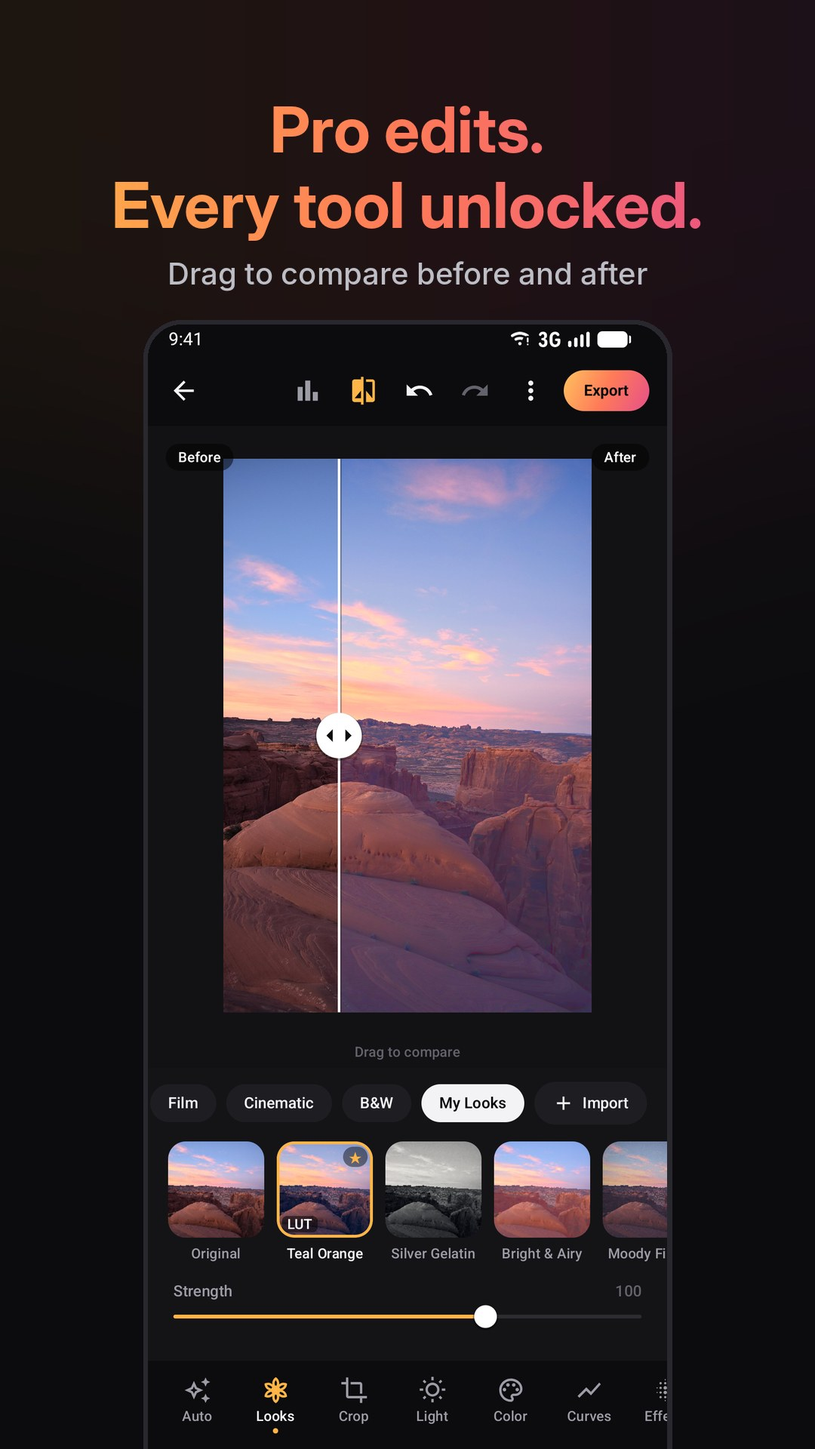
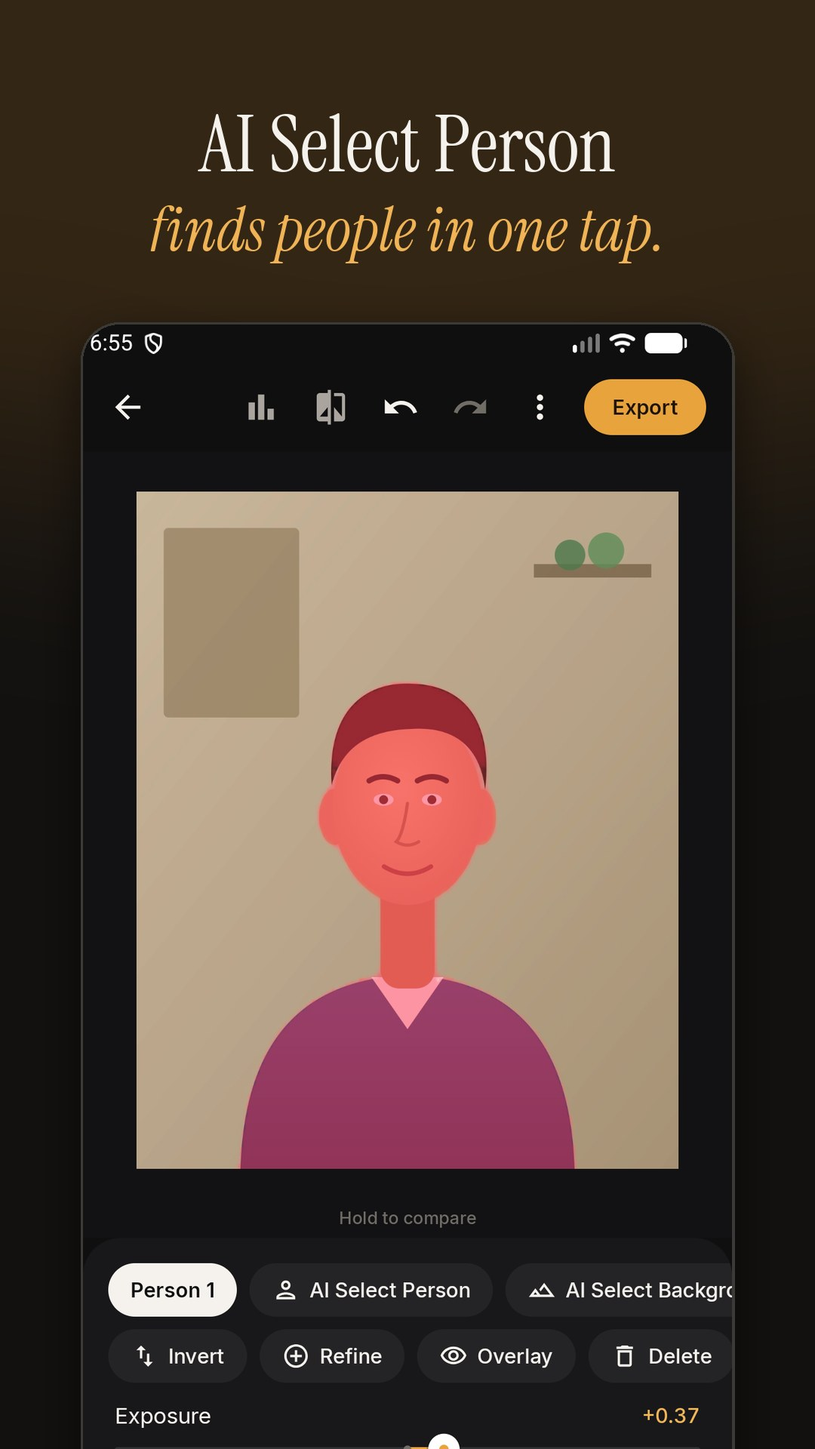
Press kit: FitMyPDF (formerly PDF Crush), GlowShop (formerly Tonal), ads claims (16 Nov 2026)

diff --git a/press/pdf-crush.html b/press/pdf-crush.html
@@ -1,1 +1,1 @@
-<!doctype html><html lang="en"><head><meta charset="utf-8"><meta name="viewport" content="width=device-width,initial-scale=1"><title>FitMyPDF press kit (formerly PDF Crush)</title><meta name="description" content="Compress a PDF, photo or signature to the exact KB limit a form asks for. Free, no ads, works offline."><style>body{font:16px/1.6 system-ui,-apple-system,Segoe UI,Roboto,sans-serif;max-width:860px;margin:0 auto;padding:24px 16px;color:#1f2937;background:#fff}h1{font-size:26px;margin:.2em 0}h2{font-size:19px;margin-top:28px}a{color:#0b5cad}li{margin:4px 0}table{border-collapse:collapse}td{padding:4px 12px 4px 0;vertical-align:top}td:first-child{color:#6b7280;white-space:nowrap}.head{display:flex;gap:16px;align-items:center}.head img{width:88px;height:88px;border-radius:20px}.shots{display:grid;grid-template-columns:repeat(auto-fill,minmax(130px,1fr));gap:10px}.shots img{width:100%;border-radius:8px;border:1px solid #e5e7eb}.cards{display:grid;gap:14px}.card{display:flex;gap:14px;align-items:center;border:1px solid #e5e7eb;border-radius:12px;padding:12px}.card img{width:64px;height:64px;border-radius:14px}footer{margin-top:40px;color:#6b7280;font-size:14px}@media(prefers-color-scheme:dark){body{background:#111827;color:#e5e7eb}a{color:#7cb4f5}.card,.shots img{border-color:#374151}}</style></head><body><p><a href="./">Press kit</a></p><div class="head"><img src="pdfcrush-icon.png" alt="FitMyPDF icon"><div><h1>FitMyPDF: Compress PDF to KB</h1><div><em>Formerly PDF Crush.</em> Renamed in version 3.3 (November 2026): same app, same Google Play link.</div><div>Compress a PDF, photo or signature to the exact KB limit a form asks for. Free, no ads, works offline.</div></div></div><h2>About</h2><p>Exam, job and government portals reject uploads that miss a size limit: under 100 KB, under 200 KB, or &quot;between 50 KB and 300 KB&quot;. FitMyPDF (formerly PDF Crush) is a free Android app built for exactly that. Type the size you need and it finds the best quality that fits, keeping text sharp and selectable whenever the size allows; if a form also sets a minimum, a file that is too small is made bigger to meet it. It also turns a photo or signature into a JPG of the exact KB range and pixel size a form asks for, with presets read from official notices (JEE Main, NEET UG, UPSC, SSC CHSL). It scans paper straight to a PDF at the size you choose, opens large PDFs quickly, and includes merge, split, images-to-PDF and password tools. There are no ads, no watermark and no limits, and the app has no internet permission, so files never leave the phone. A free browser version works on any computer, also without uploading anything.</p><h2>Key facts</h2><table><tr><td>Price</td><td>Free. No ads, no in-app purchases, no watermark, no daily limits</td></tr><tr><td>Platform</td><td>Android 8.1 and newer</td></tr><tr><td>Current version</td><td>3.3.0 (November 2026)</td></tr><tr><td>Languages</td><td>English, Hindi, Bengali, Indonesian, Portuguese, Spanish, Arabic, Vietnamese, Turkish, French</td></tr><tr><td>Web version</td><td><a href="https://dev114453.github.io/tools/compress-pdf.html">dev114453.github.io/tools/compress-pdf.html</a> (runs in the browser; the file is not uploaded)</td></tr><tr><td>Developer</td><td>developer1021</td></tr><tr><td>Google Play</td><td><a href="https://play.google.com/store/apps/details?id=com.pdfcompress.start">https://play.google.com/store/apps/details?id=com.pdfcompress.start</a></td></tr><tr><td>Press contact</td><td><a href="mailto:devloper1021@gmail.com">devloper1021@gmail.com</a></td></tr></table><h2>What is different</h2><ul><li>Compress to a target size (50 KB, 100 KB, 200 KB, 300 KB, 500 KB, 1 MB, 2 MB or any number), not a vague quality slider</li><li>A minimum size too, for forms that say &quot;50 to 300 KB&quot;: too-small files are made bigger</li><li>Text stays selectable when the size allows; if pages have to become images, the app says so</li><li>The result shows the exact size down to the byte and whether it fits</li><li>Photo &amp; signature to KB: a JPG between, say, 20 and 50 KB or 10 and 20 KB, at the exact pixel size, with a crop frame</li><li>Document scanner that saves straight to 100 KB, 200 KB or 50 to 300 KB; black-and-white mode is often under 50 KB a page</li><li>Fast reader for 100+ MB, 150-page PDFs, with day, sepia and night modes</li></ul><h2>Privacy</h2><ul><li>No internet permission: the app cannot upload files</li><li>No storage permission, no account, no sign-in</li><li>Originals are never overwritten; results go to Downloads/FitMyPDF</li><li>No ads and no analytics</li></ul><h2>Screenshots</h2><p>Click for full size (1080 x 1920). <a href="pdfcrush-icon.png">App icon (512 x 512)</a>.</p><div class="shots"><a href="pdfcrush-1.jpg"><img src="pdfcrush-1.jpg" alt="FitMyPDF screenshot 1" loading="lazy"></a><a href="pdfcrush-2.jpg"><img src="pdfcrush-2.jpg" alt="FitMyPDF screenshot 2" loading="lazy"></a><a href="pdfcrush-3.jpg"><img src="pdfcrush-3.jpg" alt="FitMyPDF screenshot 3" loading="lazy"></a><a href="pdfcrush-4.jpg"><img src="pdfcrush-4.jpg" alt="FitMyPDF screenshot 4" loading="lazy"></a><a href="pdfcrush-5.jpg"><img src="pdfcrush-5.jpg" alt="FitMyPDF screenshot 5" loading="lazy"></a><a href="pdfcrush-6.jpg"><img src="pdfcrush-6.jpg" alt="FitMyPDF screenshot 6" loading="lazy"></a></div><footer>Press kit by developer1021. Text, screenshots and icons are free to use in coverage with credit to the app name. Contact: <a href="mailto:devloper1021@gmail.com">devloper1021@gmail.com</a></footer></body></html>
+<!doctype html><html lang="en"><head><meta charset="utf-8"><meta name="viewport" content="width=device-width,initial-scale=1"><title>FitMyPDF press kit (formerly PDF Crush)</title><meta name="description" content="Compress a PDF, photo or signature to the exact KB limit a form asks for. Free with a small ad; files stay on the phone."><style>body{font:16px/1.6 system-ui,-apple-system,Segoe UI,Roboto,sans-serif;max-width:860px;margin:0 auto;padding:24px 16px;color:#1f2937;background:#fff}h1{font-size:26px;margin:.2em 0}h2{font-size:19px;margin-top:28px}a{color:#0b5cad}li{margin:4px 0}table{border-collapse:collapse}td{padding:4px 12px 4px 0;vertical-align:top}td:first-child{color:#6b7280;white-space:nowrap}.head{display:flex;gap:16px;align-items:center}.head img{width:88px;height:88px;border-radius:20px}.shots{display:grid;grid-template-columns:repeat(auto-fill,minmax(130px,1fr));gap:10px}.shots img{width:100%;border-radius:8px;border:1px solid #e5e7eb}.cards{display:grid;gap:14px}.card{display:flex;gap:14px;align-items:center;border:1px solid #e5e7eb;border-radius:12px;padding:12px}.card img{width:64px;height:64px;border-radius:14px}footer{margin-top:40px;color:#6b7280;font-size:14px}@media(prefers-color-scheme:dark){body{background:#111827;color:#e5e7eb}a{color:#7cb4f5}.card,.shots img{border-color:#374151}}</style></head><body><p><a href="./">Press kit</a></p><div class="head"><img src="pdfcrush-icon.png" alt="FitMyPDF icon"><div><h1>FitMyPDF: Compress PDF to KB</h1><div><b>Formerly PDF Crush.</b> Renamed in version 3.3 (November 2026): same app, same Google Play link.</div><div>Compress a PDF, photo or signature to the exact KB limit a form asks for. Free with a small ad; files stay on the phone.</div></div></div><h2>About</h2><p>Exam, job and government portals reject uploads that miss a size limit: under 100 KB, under 200 KB, or &quot;between 50 KB and 300 KB&quot;. FitMyPDF (formerly PDF Crush) is a free Android PDF compressor built for exactly that. Type the size you need and it finds the best quality that fits, keeping text sharp and selectable whenever the size allows; if a form also sets a minimum, a file that is too small is made bigger to meet it. It also turns a photo or signature into a JPG of the exact KB range and pixel size a form asks for, with presets read from official notices for 11 Indian exams (JEE Main, NEET UG, CUET UG, UGC NET, CSIR NET, GATE, CTET, UPSC, SSC CHSL, IBPS PO, SBI Clerk). It scans paper straight to a PDF at the size you choose, opens large PDFs quickly, and includes merge, split, images-to-PDF and password tools. Files are processed on the phone and never uploaded. The app is free with a small ad and has no watermark or daily limits; an optional one-time purchase removes the ads. A free browser version works on any computer, also without uploading anything.</p><h2>Key facts</h2><table><tr><td>Price</td><td>Free with a small ad (home-screen banner, occasional ad after a file is saved). Optional one-time Remove ads purchase. No watermark, no daily limits</td></tr><tr><td>Platform</td><td>Android 8.1 and newer</td></tr><tr><td>Current version</td><td>3.4.0 (November 2026)</td></tr><tr><td>Languages</td><td>English, Hindi, Bengali, Indonesian, Portuguese, Spanish, Arabic, Vietnamese, Turkish, French</td></tr><tr><td>Web version</td><td><a href="https://dev114453.github.io/tools/compress-pdf.html">dev114453.github.io/tools/compress-pdf.html</a> (runs in the browser; the file is not uploaded)</td></tr><tr><td>Formerly</td><td>PDF Crush (renamed in version 3.3)</td></tr><tr><td>Developer</td><td>developer1021</td></tr><tr><td>Google Play</td><td><a href="https://play.google.com/store/apps/details?id=com.pdfcompress.start">https://play.google.com/store/apps/details?id=com.pdfcompress.start</a></td></tr><tr><td>Press contact</td><td><a href="mailto:devloper1021@gmail.com">devloper1021@gmail.com</a></td></tr></table><h2>What is different</h2><ul><li>Compress to a target size (50 KB, 100 KB, 200 KB, 300 KB, 500 KB, 1 MB, 2 MB or any number), not a vague quality slider</li><li>A minimum size too, for forms that say &quot;50 to 300 KB&quot;: too-small files are made bigger</li><li>Text stays selectable when the size allows; if pages have to become images, the app says so</li><li>The result shows the exact size down to the byte and whether it fits</li><li>Photo &amp; signature to KB: a JPG between, say, 20 and 50 KB or 10 and 20 KB, at the exact pixel size, with a crop frame</li><li>Exam presets read from official notices, each naming its source</li><li>Document scanner that saves straight to 100 KB, 200 KB or 50 to 300 KB; black-and-white mode is often under 50 KB a page</li><li>Fast reader for 100+ MB, 150-page PDFs, with day, sepia and night modes</li></ul><h2>Privacy</h2><ul><li>PDFs, photos and signatures are processed on the phone and never uploaded</li><li>No account, no sign-in</li><li>Originals are never overwritten; results go to Downloads/FitMyPDF</li><li>Ads are served by Google AdMob, with consent choices where required; the one-time Remove ads purchase turns them off</li></ul><h2>Screenshots</h2><p>Click for full size (1080 x 1920). <a href="pdfcrush-icon.png">App icon (512 x 512)</a>.</p><div class="shots"><a href="pdfcrush-1.jpg"><img src="pdfcrush-1.jpg" alt="FitMyPDF screenshot 1" loading="lazy"></a><a href="pdfcrush-2.jpg"><img src="pdfcrush-2.jpg" alt="FitMyPDF screenshot 2" loading="lazy"></a><a href="pdfcrush-3.jpg"><img src="pdfcrush-3.jpg" alt="FitMyPDF screenshot 3" loading="lazy"></a><a href="pdfcrush-4.jpg"><img src="pdfcrush-4.jpg" alt="FitMyPDF screenshot 4" loading="lazy"></a><a href="pdfcrush-5.jpg"><img src="pdfcrush-5.jpg" alt="FitMyPDF screenshot 5" loading="lazy"></a><a href="pdfcrush-6.jpg"><img src="pdfcrush-6.jpg" alt="FitMyPDF screenshot 6" loading="lazy"></a></div><footer>Press kit by developer1021. Text, screenshots and icons are free to use in coverage with credit to the app name. Contact: <a href="mailto:devloper1021@gmail.com">devloper1021@gmail.com</a></footer></body></html>

diff --git a/press/tonal.html b/press/tonal.html
@@ -1,1 +1,1 @@
-<!doctype html><html lang="en"><head><meta charset="utf-8"><meta name="viewport" content="width=device-width,initial-scale=1"><title>Tonal press kit</title><meta name="description" content="A free pro photo editor that imports XMP/DNG presets and .cube LUTs. No ads, no subscription, offline."><style>body{font:16px/1.6 system-ui,-apple-system,Segoe UI,Roboto,sans-serif;max-width:860px;margin:0 auto;padding:24px 16px;color:#1f2937;background:#fff}h1{font-size:26px;margin:.2em 0}h2{font-size:19px;margin-top:28px}a{color:#0b5cad}li{margin:4px 0}table{border-collapse:collapse}td{padding:4px 12px 4px 0;vertical-align:top}td:first-child{color:#6b7280;white-space:nowrap}.head{display:flex;gap:16px;align-items:center}.head img{width:88px;height:88px;border-radius:20px}.shots{display:grid;grid-template-columns:repeat(auto-fill,minmax(130px,1fr));gap:10px}.shots img{width:100%;border-radius:8px;border:1px solid #e5e7eb}.cards{display:grid;gap:14px}.card{display:flex;gap:14px;align-items:center;border:1px solid #e5e7eb;border-radius:12px;padding:12px}.card img{width:64px;height:64px;border-radius:14px}footer{margin-top:40px;color:#6b7280;font-size:14px}@media(prefers-color-scheme:dark){body{background:#111827;color:#e5e7eb}a{color:#7cb4f5}.card,.shots img{border-color:#374151}}</style></head><body><p><a href="./">Press kit</a></p><div class="head"><img src="tonal-icon.png" alt="Tonal icon"><div><h1>Tonal: Photo Editor &amp; Presets</h1><div>A free pro photo editor that imports XMP/DNG presets and .cube LUTs. No ads, no subscription, offline.</div></div></div><h2>About</h2><p>Tonal is a free Android photo editor that opens the presets photographers already have. It imports presets in XMP and DNG format (the format Lightroom presets use), straight from a file or a .zip pack, and .cube LUTs up to 64x64x64 for film and cinematic colour. On top of that are the tools of a desktop raw developer: light, HSL, three-way colour grading, tone curves, Subject, Background, Sky, Radial, Linear, colour-range and luminance-range masks, healing, and copy-paste of edits onto many photos with batch export. Every tool is unlocked, there is no subscription, watermark, ads or account, exports are full resolution, and the app has no internet access.</p><h2>Key facts</h2><table><tr><td>Price</td><td>Free, every tool unlocked. No ads, no subscription, no watermark</td></tr><tr><td>Platform</td><td>Android 8.0 and newer</td></tr><tr><td>Current version</td><td>2.0.0 (November 2026)</td></tr><tr><td>Developer</td><td>developer1021</td></tr><tr><td>Google Play</td><td><a href="https://play.google.com/store/apps/details?id=com.developer1021.tonal">https://play.google.com/store/apps/details?id=com.developer1021.tonal</a></td></tr><tr><td>Press contact</td><td><a href="mailto:devloper1021@gmail.com">devloper1021@gmail.com</a></td></tr></table><h2>What is different</h2><ul><li>Imports XMP/DNG presets (incl. .zip packs): exposure, tone, white balance, HSL, colour grading, split toning, curves, clarity, texture, dehaze, vignette, grain and sharpening carry over</li><li>.cube 3D LUT import with a strength slider; save any edit as your own look</li><li>Seven mask types that can be added, subtracted or intersected</li><li>Copy edits from one photo, paste selected groups onto many, batch export at full quality</li><li>History saved with each photo, so undo still works the next day</li><li>Export at full original resolution, JPEG/PNG/WebP, metadata keep/remove location/remove all, Instagram borders</li></ul><h2>Privacy</h2><ul><li>No internet access, no cloud, no account</li><li>Photos never leave the phone</li><li>No ads and no analytics</li></ul><h2>Screenshots</h2><p>Click for full size (1080 x 1920). <a href="tonal-icon.png">App icon (512 x 512)</a>.</p><div class="shots"><a href="tonal-1.jpg"><img src="tonal-1.jpg" alt="Tonal screenshot 1" loading="lazy"></a><a href="tonal-2.jpg"><img src="tonal-2.jpg" alt="Tonal screenshot 2" loading="lazy"></a><a href="tonal-3.jpg"><img src="tonal-3.jpg" alt="Tonal screenshot 3" loading="lazy"></a><a href="tonal-4.jpg"><img src="tonal-4.jpg" alt="Tonal screenshot 4" loading="lazy"></a><a href="tonal-5.jpg"><img src="tonal-5.jpg" alt="Tonal screenshot 5" loading="lazy"></a><a href="tonal-6.jpg"><img src="tonal-6.jpg" alt="Tonal screenshot 6" loading="lazy"></a></div><p><small>Tonal is not affiliated with Adobe. Lightroom is a trademark of Adobe.</small></p><footer>Press kit by developer1021. Text, screenshots and icons are free to use in coverage with credit to the app name. Contact: <a href="mailto:devloper1021@gmail.com">devloper1021@gmail.com</a></footer></body></html>
+<!doctype html><html lang="en"><head><meta charset="utf-8"><meta name="viewport" content="width=device-width,initial-scale=1"><title>GlowShop press kit (formerly Tonal)</title><meta name="description" content="An AI photo editor with one-tap filters, presets and pro tools, and on-device AI Select Person. Free with no ads; optional GlowShop Pro."><style>body{font:16px/1.6 system-ui,-apple-system,Segoe UI,Roboto,sans-serif;max-width:860px;margin:0 auto;padding:24px 16px;color:#1f2937;background:#fff}h1{font-size:26px;margin:.2em 0}h2{font-size:19px;margin-top:28px}a{color:#0b5cad}li{margin:4px 0}table{border-collapse:collapse}td{padding:4px 12px 4px 0;vertical-align:top}td:first-child{color:#6b7280;white-space:nowrap}.head{display:flex;gap:16px;align-items:center}.head img{width:88px;height:88px;border-radius:20px}.shots{display:grid;grid-template-columns:repeat(auto-fill,minmax(130px,1fr));gap:10px}.shots img{width:100%;border-radius:8px;border:1px solid #e5e7eb}.cards{display:grid;gap:14px}.card{display:flex;gap:14px;align-items:center;border:1px solid #e5e7eb;border-radius:12px;padding:12px}.card img{width:64px;height:64px;border-radius:14px}footer{margin-top:40px;color:#6b7280;font-size:14px}@media(prefers-color-scheme:dark){body{background:#111827;color:#e5e7eb}a{color:#7cb4f5}.card,.shots img{border-color:#374151}}</style></head><body><p><a href="./">Press kit</a></p><div class="head"><img src="tonal-icon.png" alt="GlowShop icon"><div><h1>GlowShop: AI Photo Editor</h1><div><b>Formerly Tonal.</b> Renamed in version 3.0 (November 2026): same app, same Google Play link. Edits, history and saved looks carry over.</div><div>An AI photo editor with one-tap filters, presets and pro tools, and on-device AI Select Person. Free with no ads; optional GlowShop Pro.</div></div></div><h2>About</h2><p>GlowShop (formerly Tonal) is an Android photo editor that makes every photo glow. Start with one of 20+ built-in looks or Auto enhance, then fine-tune with the tools desktop editors use: light, HSL, colour grading, tone curves, healing and masks. &quot;AI Select Person&quot; uses on-device AI (Google ML Kit selfie segmentation) to find the person in a photo in one tap, so you can brighten them or blur the background; the photo is not uploaded. GlowShop imports the presets photographers already have: Lightroom-compatible XMP and DNG presets and .cube LUTs, one by one or as a .zip. Edits are live and reversible, history is saved with each photo, and exports are full resolution with no watermark. GlowShop is free with no ads. Optional GlowShop Pro adds unlimited preset import, sky, colour and brightness masks, batch paste and export, and Instagram borders, as a yearly subscription with a 7-day free trial or a one-time lifetime purchase.</p><h2>Key facts</h2><table><tr><td>Price</td><td>Free, no ads, no watermark. Optional GlowShop Pro: yearly subscription with a 7-day free trial, or a one-time lifetime purchase (prices shown in Google Play)</td></tr><tr><td>Platform</td><td>Android 8.0 and newer</td></tr><tr><td>Current version</td><td>3.0.0 (November 2026)</td></tr><tr><td>Formerly</td><td>Tonal (renamed in version 3.0)</td></tr><tr><td>Developer</td><td>developer1021</td></tr><tr><td>Google Play</td><td><a href="https://play.google.com/store/apps/details?id=com.developer1021.tonal">https://play.google.com/store/apps/details?id=com.developer1021.tonal</a></td></tr><tr><td>Press contact</td><td><a href="mailto:devloper1021@gmail.com">devloper1021@gmail.com</a></td></tr></table><h2>What is different</h2><ul><li>AI Select Person and AI Select Background in one tap, running on the phone (Google ML Kit)</li><li>Imports XMP/DNG presets (incl. .zip packs) and .cube 3D LUTs with a strength slider; save any edit as your own look</li><li>Masks that can be added, subtracted or intersected: AI person/background, radial and linear free; sky, colour and brightness with Pro</li><li>Full history saved with each photo, so undo still works the next day</li><li>Export at full original resolution, JPEG/PNG/WebP, keep or remove location and metadata</li><li>With GlowShop Pro: paste an edit onto many photos and export them together, Instagram borders</li></ul><h2>Privacy</h2><ul><li>Photos are edited on the phone and not uploaded; the app has no internet permission</li><li>AI Select Person runs on the device</li><li>No account and no sign-up</li><li>Purchases are handled by Google Play</li><li>No ads and no analytics</li></ul><h2>Screenshots</h2><p>Click for full size (1080 x 1920). <a href="tonal-icon.png">App icon (512 x 512)</a>.</p><div class="shots"><a href="tonal-1.jpg"><img src="tonal-1.jpg" alt="GlowShop screenshot 1" loading="lazy"></a><a href="tonal-2.jpg"><img src="tonal-2.jpg" alt="GlowShop screenshot 2" loading="lazy"></a><a href="tonal-3.jpg"><img src="tonal-3.jpg" alt="GlowShop screenshot 3" loading="lazy"></a><a href="tonal-4.jpg"><img src="tonal-4.jpg" alt="GlowShop screenshot 4" loading="lazy"></a><a href="tonal-5.jpg"><img src="tonal-5.jpg" alt="GlowShop screenshot 5" loading="lazy"></a><a href="tonal-6.jpg"><img src="tonal-6.jpg" alt="GlowShop screenshot 6" loading="lazy"></a></div><p><small>GlowShop is not affiliated with Adobe. Lightroom is a trademark of Adobe.</small></p><footer>Press kit by developer1021. Text, screenshots and icons are free to use in coverage with credit to the app name. Contact: <a href="mailto:devloper1021@gmail.com">devloper1021@gmail.com</a></footer></body></html>

diff --git a/press/bhakti-path.html b/press/bhakti-path.html
@@ -1,1 +1,1 @@
-<!doctype html><html lang="en"><head><meta charset="utf-8"><meta name="viewport" content="width=device-width,initial-scale=1"><title>Bhakti Path press kit</title><meta name="description" content="Hanuman Chalisa, aarti, the Bhagavad Gita and mantra jaap for daily puja. Free, no ads, no login, offline."><style>body{font:16px/1.6 system-ui,-apple-system,Segoe UI,Roboto,sans-serif;max-width:860px;margin:0 auto;padding:24px 16px;color:#1f2937;background:#fff}h1{font-size:26px;margin:.2em 0}h2{font-size:19px;margin-top:28px}a{color:#0b5cad}li{margin:4px 0}table{border-collapse:collapse}td{padding:4px 12px 4px 0;vertical-align:top}td:first-child{color:#6b7280;white-space:nowrap}.head{display:flex;gap:16px;align-items:center}.head img{width:88px;height:88px;border-radius:20px}.shots{display:grid;grid-template-columns:repeat(auto-fill,minmax(130px,1fr));gap:10px}.shots img{width:100%;border-radius:8px;border:1px solid #e5e7eb}.cards{display:grid;gap:14px}.card{display:flex;gap:14px;align-items:center;border:1px solid #e5e7eb;border-radius:12px;padding:12px}.card img{width:64px;height:64px;border-radius:14px}footer{margin-top:40px;color:#6b7280;font-size:14px}@media(prefers-color-scheme:dark){body{background:#111827;color:#e5e7eb}a{color:#7cb4f5}.card,.shots img{border-color:#374151}}</style></head><body><p><a href="./">Press kit</a></p><div class="head"><img src="bhaktipath-icon.png" alt="Bhakti Path icon"><div><h1>Bhakti Path: Hanuman Chalisa</h1><div>Hanuman Chalisa, aarti, the Bhagavad Gita and mantra jaap for daily puja. Free, no ads, no login, offline.</div></div></div><h2>About</h2><p>Bhakti Path is a free Hindi devotional app for daily puja and path. It holds the Hanuman Chalisa and other chalisas, an aarti sangrah, the complete Bhagavad Gita (all 700 shlokas with simple Hindi meaning), Sunderkand, stotras, mantras and vrat kathas. Its Path Mode gently lights each stanza and moves on at the reader&#x27;s own pace, with optional tanpura, harmonium, bansuri or temple bells; a realistic mala of rudraksha, tulsi, crystal or sandalwood beads counts jaap with a soft click, haptics and the volume keys; and an aarti mode lets you wave the diya thali and ring the bell. A sadhana record keeps days in a row, paths, reading time and Gita progress. It is completely free, with no ads, no login, and works without internet.</p><h2>Key facts</h2><table><tr><td>Price</td><td>Free. No ads, no in-app purchases</td></tr><tr><td>Platform</td><td>Android 7.0 and newer</td></tr><tr><td>Current version</td><td>4.0.1 (November 2026)</td></tr><tr><td>Language</td><td>Hindi and Sanskrit texts; Hindi app with an English interface option</td></tr><tr><td>Developer</td><td>developer1021</td></tr><tr><td>Google Play</td><td><a href="https://play.google.com/store/apps/details?id=com.developer1021.bhaktipath">https://play.google.com/store/apps/details?id=com.developer1021.bhaktipath</a></td></tr><tr><td>Press contact</td><td><a href="mailto:devloper1021@gmail.com">devloper1021@gmail.com</a></td></tr></table><h2>What is different</h2><ul><li>Path Mode: the stanza to read lights up and moves on at your pace (slow, regular, fast or your own), with an optional repeat count and sankalp</li><li>A mala that behaves like a real one: beads on a thread, turn at the sumeru, count with volume keys, dark screen for night jaap</li><li>Aarti mode with diya thali, bell, flowers and shankh</li><li>39 devotional wallpapers from public-domain paintings by Raja Ravi Varma and others</li><li>Ekadashi, Pradosh, Purnima, Amavasya and festival reminders with the related katha and aarti</li><li>Texts checked against the Gita Press tradition and other standard versions</li></ul><h2>Privacy</h2><ul><li>No login and no account</li><li>Works offline; progress stays on the phone</li><li>No ads and no analytics</li></ul><h2>Screenshots</h2><p>Click for full size (1080 x 1920). <a href="bhaktipath-icon.png">App icon (512 x 512)</a>.</p><div class="shots"><a href="bhaktipath-1.jpg"><img src="bhaktipath-1.jpg" alt="Bhakti Path screenshot 1" loading="lazy"></a><a href="bhaktipath-2.jpg"><img src="bhaktipath-2.jpg" alt="Bhakti Path screenshot 2" loading="lazy"></a><a href="bhaktipath-3.jpg"><img src="bhaktipath-3.jpg" alt="Bhakti Path screenshot 3" loading="lazy"></a><a href="bhaktipath-4.jpg"><img src="bhaktipath-4.jpg" alt="Bhakti Path screenshot 4" loading="lazy"></a><a href="bhaktipath-5.jpg"><img src="bhaktipath-5.jpg" alt="Bhakti Path screenshot 5" loading="lazy"></a><a href="bhaktipath-6.jpg"><img src="bhaktipath-6.jpg" alt="Bhakti Path screenshot 6" loading="lazy"></a></div><footer>Press kit by developer1021. Text, screenshots and icons are free to use in coverage with credit to the app name. Contact: <a href="mailto:devloper1021@gmail.com">devloper1021@gmail.com</a></footer></body></html>
+<!doctype html><html lang="en"><head><meta charset="utf-8"><meta name="viewport" content="width=device-width,initial-scale=1"><title>Bhakti Path press kit</title><meta name="description" content="Hanuman Chalisa, aarti, the Bhagavad Gita and mantra jaap for daily puja. Free with ads (one-time Remove ads), no login."><style>body{font:16px/1.6 system-ui,-apple-system,Segoe UI,Roboto,sans-serif;max-width:860px;margin:0 auto;padding:24px 16px;color:#1f2937;background:#fff}h1{font-size:26px;margin:.2em 0}h2{font-size:19px;margin-top:28px}a{color:#0b5cad}li{margin:4px 0}table{border-collapse:collapse}td{padding:4px 12px 4px 0;vertical-align:top}td:first-child{color:#6b7280;white-space:nowrap}.head{display:flex;gap:16px;align-items:center}.head img{width:88px;height:88px;border-radius:20px}.shots{display:grid;grid-template-columns:repeat(auto-fill,minmax(130px,1fr));gap:10px}.shots img{width:100%;border-radius:8px;border:1px solid #e5e7eb}.cards{display:grid;gap:14px}.card{display:flex;gap:14px;align-items:center;border:1px solid #e5e7eb;border-radius:12px;padding:12px}.card img{width:64px;height:64px;border-radius:14px}footer{margin-top:40px;color:#6b7280;font-size:14px}@media(prefers-color-scheme:dark){body{background:#111827;color:#e5e7eb}a{color:#7cb4f5}.card,.shots img{border-color:#374151}}</style></head><body><p><a href="./">Press kit</a></p><div class="head"><img src="bhaktipath-icon.png" alt="Bhakti Path icon"><div><h1>Bhakti Path: Hanuman Chalisa</h1><div>Hanuman Chalisa, aarti, the Bhagavad Gita and mantra jaap for daily puja. Free with ads (one-time Remove ads), no login.</div></div></div><h2>About</h2><p>Bhakti Path is a free Hindi devotional app for daily puja and path. It holds the Hanuman Chalisa and other chalisas, an aarti sangrah, the complete Bhagavad Gita (all 700 shlokas with simple Hindi meaning), Sunderkand, stotras, mantras and vrat kathas. Its Path Mode gently lights each stanza and moves on at the reader&#x27;s own pace, with optional tanpura, harmonium, bansuri or temple bells; a realistic mala of rudraksha, tulsi, crystal or sandalwood beads counts jaap with a soft click, haptics and the volume keys; and an aarti mode lets you wave the diya thali and ring the bell. A sadhana record keeps days in a row, paths, reading time and Gita progress. It is free, with a small ad that an optional one-time purchase removes, and needs no login.</p><h2>Key facts</h2><table><tr><td>Price</td><td>Free with ads. Optional one-time Remove ads purchase</td></tr><tr><td>Platform</td><td>Android 7.0 and newer</td></tr><tr><td>Current version</td><td>4.2.0 (November 2026)</td></tr><tr><td>Language</td><td>Hindi and Sanskrit texts; Hindi app with an English interface option</td></tr><tr><td>Developer</td><td>developer1021</td></tr><tr><td>Google Play</td><td><a href="https://play.google.com/store/apps/details?id=com.developer1021.bhaktipath">https://play.google.com/store/apps/details?id=com.developer1021.bhaktipath</a></td></tr><tr><td>Press contact</td><td><a href="mailto:devloper1021@gmail.com">devloper1021@gmail.com</a></td></tr></table><h2>What is different</h2><ul><li>Path Mode: the stanza to read lights up and moves on at your pace (slow, regular, fast or your own), with an optional repeat count and sankalp</li><li>A mala that behaves like a real one: beads on a thread, turn at the sumeru, count with volume keys, dark screen for night jaap</li><li>Aarti mode with diya thali, bell, flowers and shankh</li><li>39 devotional wallpapers from public-domain paintings by Raja Ravi Varma and others</li><li>Ekadashi, Pradosh, Purnima, Amavasya and festival reminders with the related katha and aarti</li><li>Texts checked against the Gita Press tradition and other standard versions</li></ul><h2>Privacy</h2><ul><li>No login and no account</li><li>Progress stays on the phone</li><li>Ads are served by Google AdMob, with consent choices where required; Remove ads turns them off</li></ul><h2>Screenshots</h2><p>Click for full size (1080 x 1920). <a href="bhaktipath-icon.png">App icon (512 x 512)</a>.</p><div class="shots"><a href="bhaktipath-1.jpg"><img src="bhaktipath-1.jpg" alt="Bhakti Path screenshot 1" loading="lazy"></a><a href="bhaktipath-2.jpg"><img src="bhaktipath-2.jpg" alt="Bhakti Path screenshot 2" loading="lazy"></a><a href="bhaktipath-3.jpg"><img src="bhaktipath-3.jpg" alt="Bhakti Path screenshot 3" loading="lazy"></a><a href="bhaktipath-4.jpg"><img src="bhaktipath-4.jpg" alt="Bhakti Path screenshot 4" loading="lazy"></a><a href="bhaktipath-5.jpg"><img src="bhaktipath-5.jpg" alt="Bhakti Path screenshot 5" loading="lazy"></a><a href="bhaktipath-6.jpg"><img src="bhaktipath-6.jpg" alt="Bhakti Path screenshot 6" loading="lazy"></a></div><footer>Press kit by developer1021. Text, screenshots and icons are free to use in coverage with credit to the app name. Contact: <a href="mailto:devloper1021@gmail.com">devloper1021@gmail.com</a></footer></body></html>

diff --git a/press/index.html b/press/index.html
@@ -1,1 +1,1 @@
-<!doctype html><html lang="en"><head><meta charset="utf-8"><meta name="viewport" content="width=device-width,initial-scale=1"><title>developer1021 press kit</title><meta name="description" content="Press kit for FitMyPDF (formerly PDF Crush), Tonal and Bhakti Path by developer1021."><style>body{font:16px/1.6 system-ui,-apple-system,Segoe UI,Roboto,sans-serif;max-width:860px;margin:0 auto;padding:24px 16px;color:#1f2937;background:#fff}h1{font-size:26px;margin:.2em 0}h2{font-size:19px;margin-top:28px}a{color:#0b5cad}li{margin:4px 0}table{border-collapse:collapse}td{padding:4px 12px 4px 0;vertical-align:top}td:first-child{color:#6b7280;white-space:nowrap}.head{display:flex;gap:16px;align-items:center}.head img{width:88px;height:88px;border-radius:20px}.shots{display:grid;grid-template-columns:repeat(auto-fill,minmax(130px,1fr));gap:10px}.shots img{width:100%;border-radius:8px;border:1px solid #e5e7eb}.cards{display:grid;gap:14px}.card{display:flex;gap:14px;align-items:center;border:1px solid #e5e7eb;border-radius:12px;padding:12px}.card img{width:64px;height:64px;border-radius:14px}footer{margin-top:40px;color:#6b7280;font-size:14px}@media(prefers-color-scheme:dark){body{background:#111827;color:#e5e7eb}a{color:#7cb4f5}.card,.shots img{border-color:#374151}}</style></head><body><h1>developer1021 press kit</h1><p>developer1021 makes small, private Android apps. The apps below are free, have no ads and work offline. Each page has a short description, key facts, privacy facts, screenshots and the icon.</p><div class="cards"><div class="card"><img src="pdfcrush-icon.png" alt=""><div><b><a href="pdf-crush.html">FitMyPDF: Compress PDF to KB</a> (formerly PDF Crush)</b><br>Compress a PDF to the exact KB limit a form asks for. Free, no ads, works offline.</div></div><div class="card"><img src="tonal-icon.png" alt=""><div><b><a href="tonal.html">Tonal: Photo Editor &amp; Presets</a></b><br>A free pro photo editor that imports XMP/DNG presets and .cube LUTs. No ads, no subscription, offline.</div></div><div class="card"><img src="bhaktipath-icon.png" alt=""><div><b><a href="bhakti-path.html">Bhakti Path: Hanuman Chalisa</a></b><br>Hanuman Chalisa, aarti, the Bhagavad Gita and mantra jaap for daily puja. Free, no ads, no login, offline.</div></div></div><h2>Contact</h2><p>Questions, review access or more screenshots: <a href="mailto:devloper1021@gmail.com">devloper1021@gmail.com</a>. We answer by email.</p><h2>Use</h2><p>Everything here is free to use in articles and videos with credit to the app name.</p><p><a href="../">All developer1021 apps</a></p><footer>Press kit by developer1021. Text, screenshots and icons are free to use in coverage with credit to the app name. Contact: <a href="mailto:devloper1021@gmail.com">devloper1021@gmail.com</a></footer></body></html>
+<!doctype html><html lang="en"><head><meta charset="utf-8"><meta name="viewport" content="width=device-width,initial-scale=1"><title>developer1021 press kit</title><meta name="description" content="Press kit for FitMyPDF (formerly PDF Crush), GlowShop: AI Photo Editor (formerly Tonal) and Bhakti Path by developer1021."><style>body{font:16px/1.6 system-ui,-apple-system,Segoe UI,Roboto,sans-serif;max-width:860px;margin:0 auto;padding:24px 16px;color:#1f2937;background:#fff}h1{font-size:26px;margin:.2em 0}h2{font-size:19px;margin-top:28px}a{color:#0b5cad}li{margin:4px 0}table{border-collapse:collapse}td{padding:4px 12px 4px 0;vertical-align:top}td:first-child{color:#6b7280;white-space:nowrap}.head{display:flex;gap:16px;align-items:center}.head img{width:88px;height:88px;border-radius:20px}.shots{display:grid;grid-template-columns:repeat(auto-fill,minmax(130px,1fr));gap:10px}.shots img{width:100%;border-radius:8px;border:1px solid #e5e7eb}.cards{display:grid;gap:14px}.card{display:flex;gap:14px;align-items:center;border:1px solid #e5e7eb;border-radius:12px;padding:12px}.card img{width:64px;height:64px;border-radius:14px}footer{margin-top:40px;color:#6b7280;font-size:14px}@media(prefers-color-scheme:dark){body{background:#111827;color:#e5e7eb}a{color:#7cb4f5}.card,.shots img{border-color:#374151}}</style></head><body><h1>developer1021 press kit</h1><p>developer1021 makes small, private Android apps that do their work on the phone. Each page has a short description, key facts, privacy facts, screenshots and the icon.</p><div class="cards"><div class="card"><img src="pdfcrush-icon.png" alt=""><div><b><a href="pdf-crush.html">FitMyPDF: Compress PDF to KB</a> (formerly PDF Crush)</b><br>Compress a PDF, photo or signature to the exact KB limit a form asks for. Free with a small ad; files stay on the phone.</div></div><div class="card"><img src="tonal-icon.png" alt=""><div><b><a href="tonal.html">GlowShop: AI Photo Editor</a> (formerly Tonal)</b><br>An AI photo editor with one-tap filters, presets and pro tools, and on-device AI Select Person. Free with no ads; optional GlowShop Pro.</div></div><div class="card"><img src="bhaktipath-icon.png" alt=""><div><b><a href="bhakti-path.html">Bhakti Path: Hanuman Chalisa</a></b><br>Hanuman Chalisa, aarti, the Bhagavad Gita and mantra jaap for daily puja. Free with ads (one-time Remove ads), no login.</div></div></div><h2>Contact</h2><p>Questions, review access or more screenshots: <a href="mailto:devloper1021@gmail.com">devloper1021@gmail.com</a>. We answer by email.</p><h2>Use</h2><p>Everything here is free to use in articles and videos with credit to the app name.</p><p><a href="../">All developer1021 apps</a></p><footer>Press kit by developer1021. Text, screenshots and icons are free to use in coverage with credit to the app name. Contact: <a href="mailto:devloper1021@gmail.com">devloper1021@gmail.com</a></footer></body></html>
